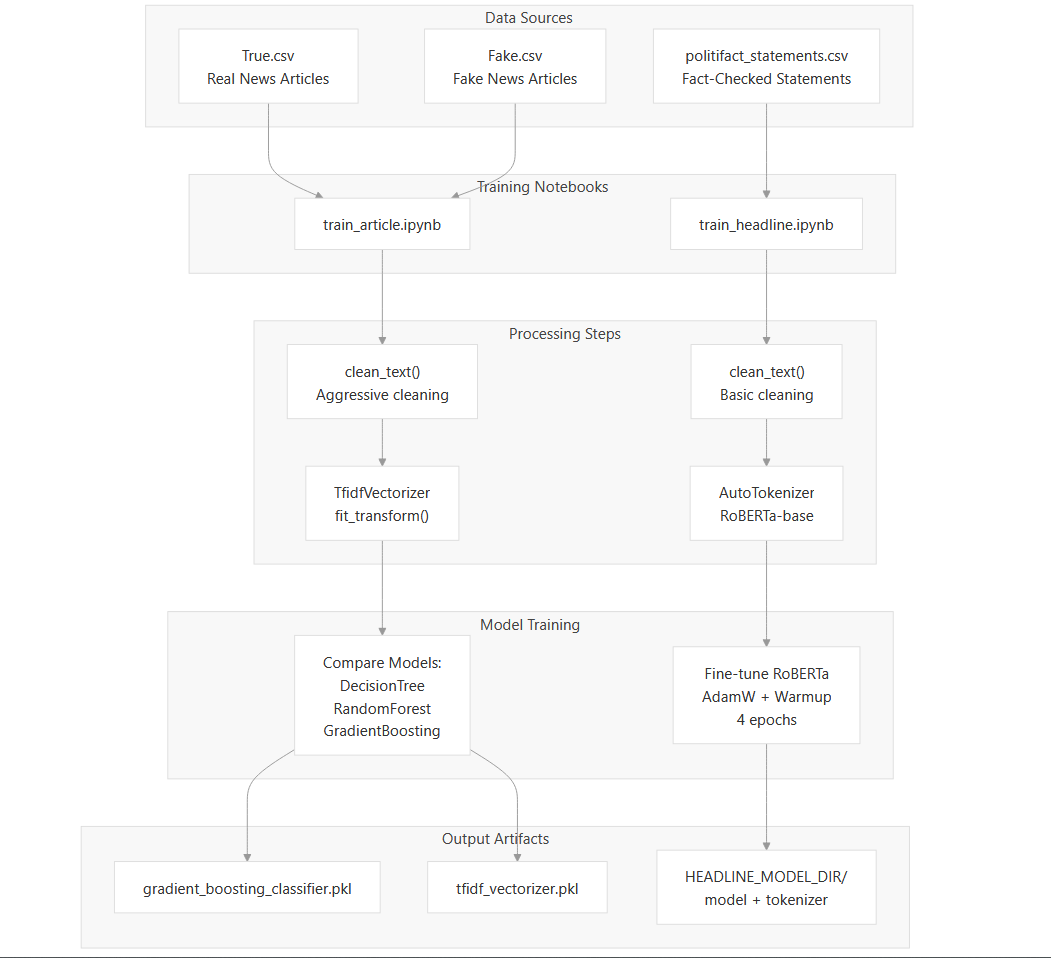
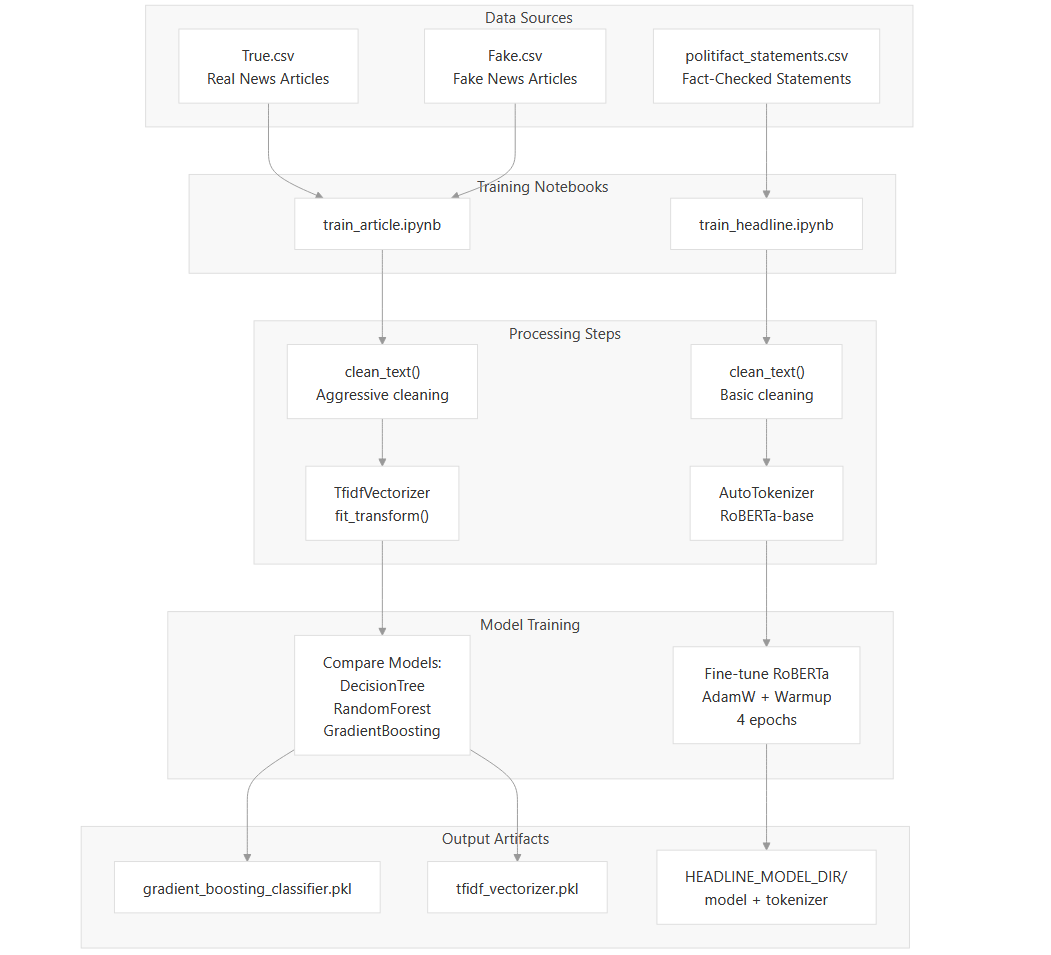
feat: Add model selection and training architecture figures to methodology chapter

diff --git a/report/chapters/03_methodology.tex b/report/chapters/03_methodology.tex
@@ -25,6 +25,24 @@ Figure~\ref{fig:system_architecture} shows the overall system architecture.
     \label{fig:system_architecture}
 \end{figure}
 
+Figure~\ref{fig:model_selection} illustrates the model selection logic, showing how the system routes input to the appropriate model based on content type.
+
+\begin{figure}[!ht]
+    \centering
+    \includegraphics[width=\textwidth]{figures/Model Selection Logic.png}
+    \caption{Model selection logic showing how inputs are routed to the appropriate model based on content type.}
+    \label{fig:model_selection}
+\end{figure}
+
+Figure~\ref{fig:training_architecture} provides an overview of the complete training pipeline, from data sources through processing to the final model artifacts.
+
+\begin{figure}[!ht]
+    \centering
+    \includegraphics[width=\textwidth]{figures/Training Architecture Overview.png}
+    \caption{Training architecture overview showing data sources, processing steps, and output artifacts.}
+    \label{fig:training_architecture}
+\end{figure}
+
 \section{Datasets}
 \label{sec:datasets}
 
@@ -265,7 +283,16 @@ The API provides the following endpoints:
 \subsection{Request/Response Flow}
 \label{subsec:request_flow}
 
-Figure~\ref{fig:request_flow} shows the request/response flow through the API.
+Figure~\ref{fig:backend_api} shows the high-level API processing pipeline from client request to JSON response.
+
+\begin{figure}[!ht]
+    \centering
+    \includegraphics[width=\textwidth]{figures/Backend API.png}
+    \caption{Backend API processing pipeline showing request validation, preprocessing, inference, and response generation.}
+    \label{fig:backend_api}
+\end{figure}
+
+Figure~\ref{fig:request_flow} shows the detailed request/response flow through the API.
 
 \begin{figure}[!ht]
     \centering
